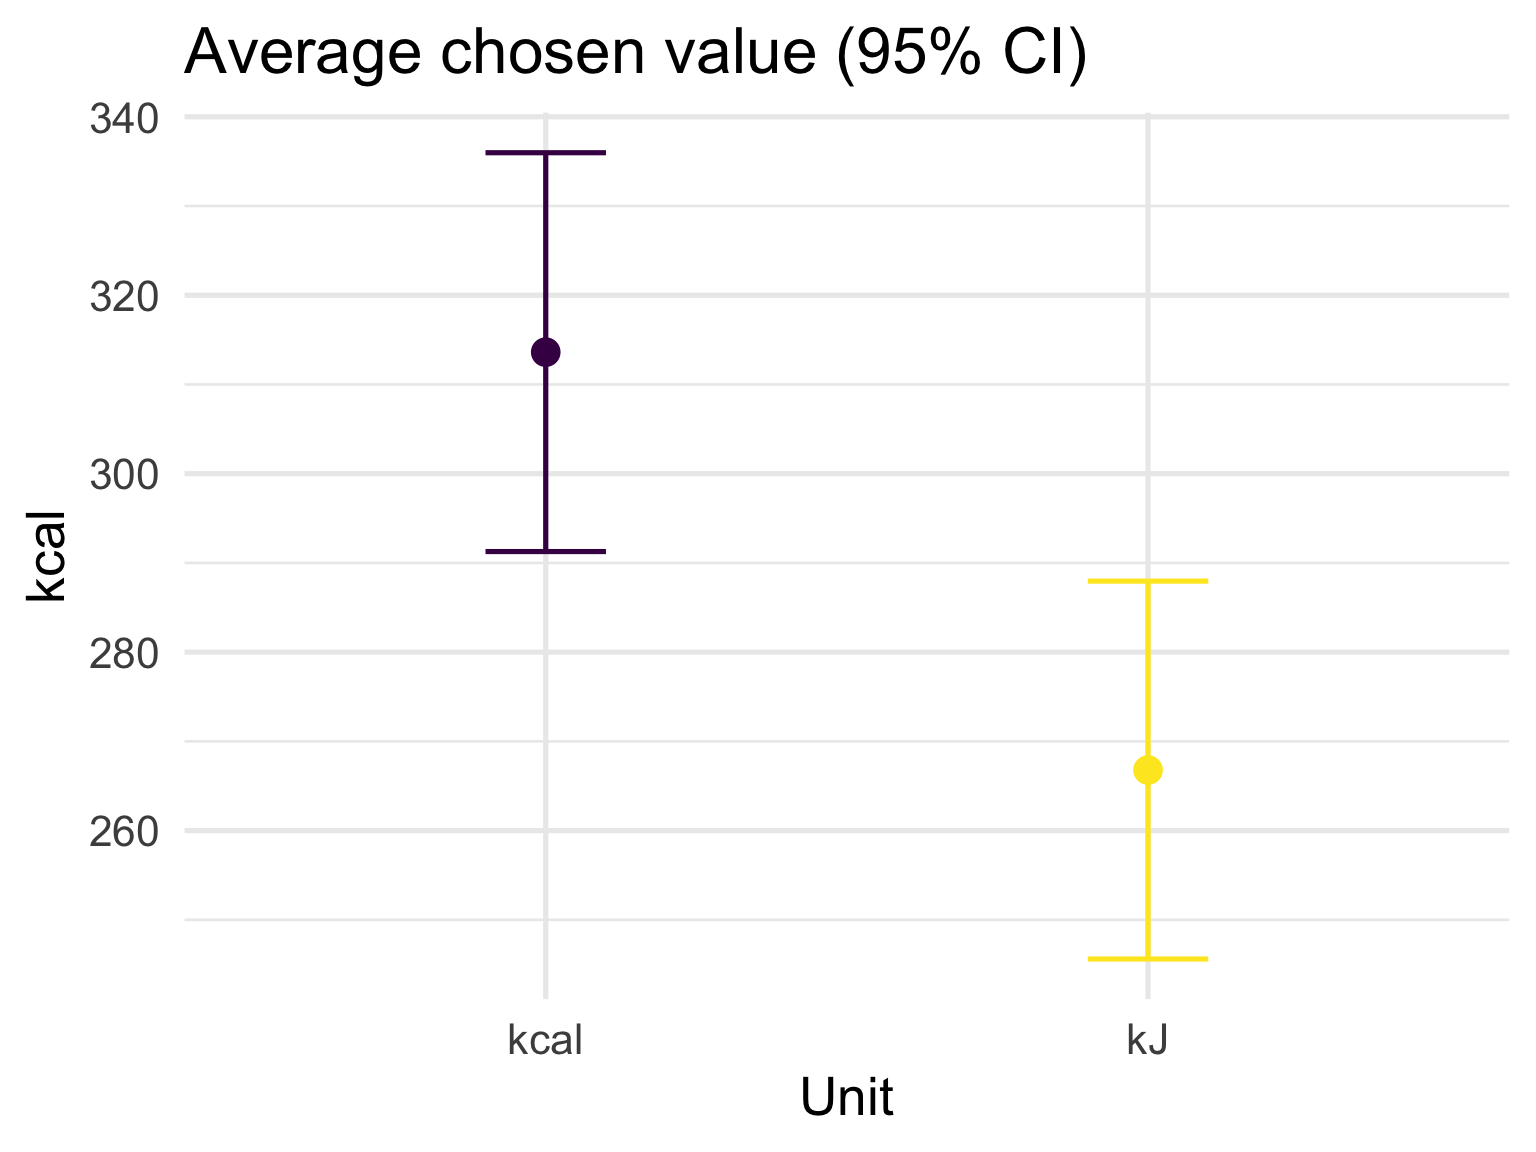
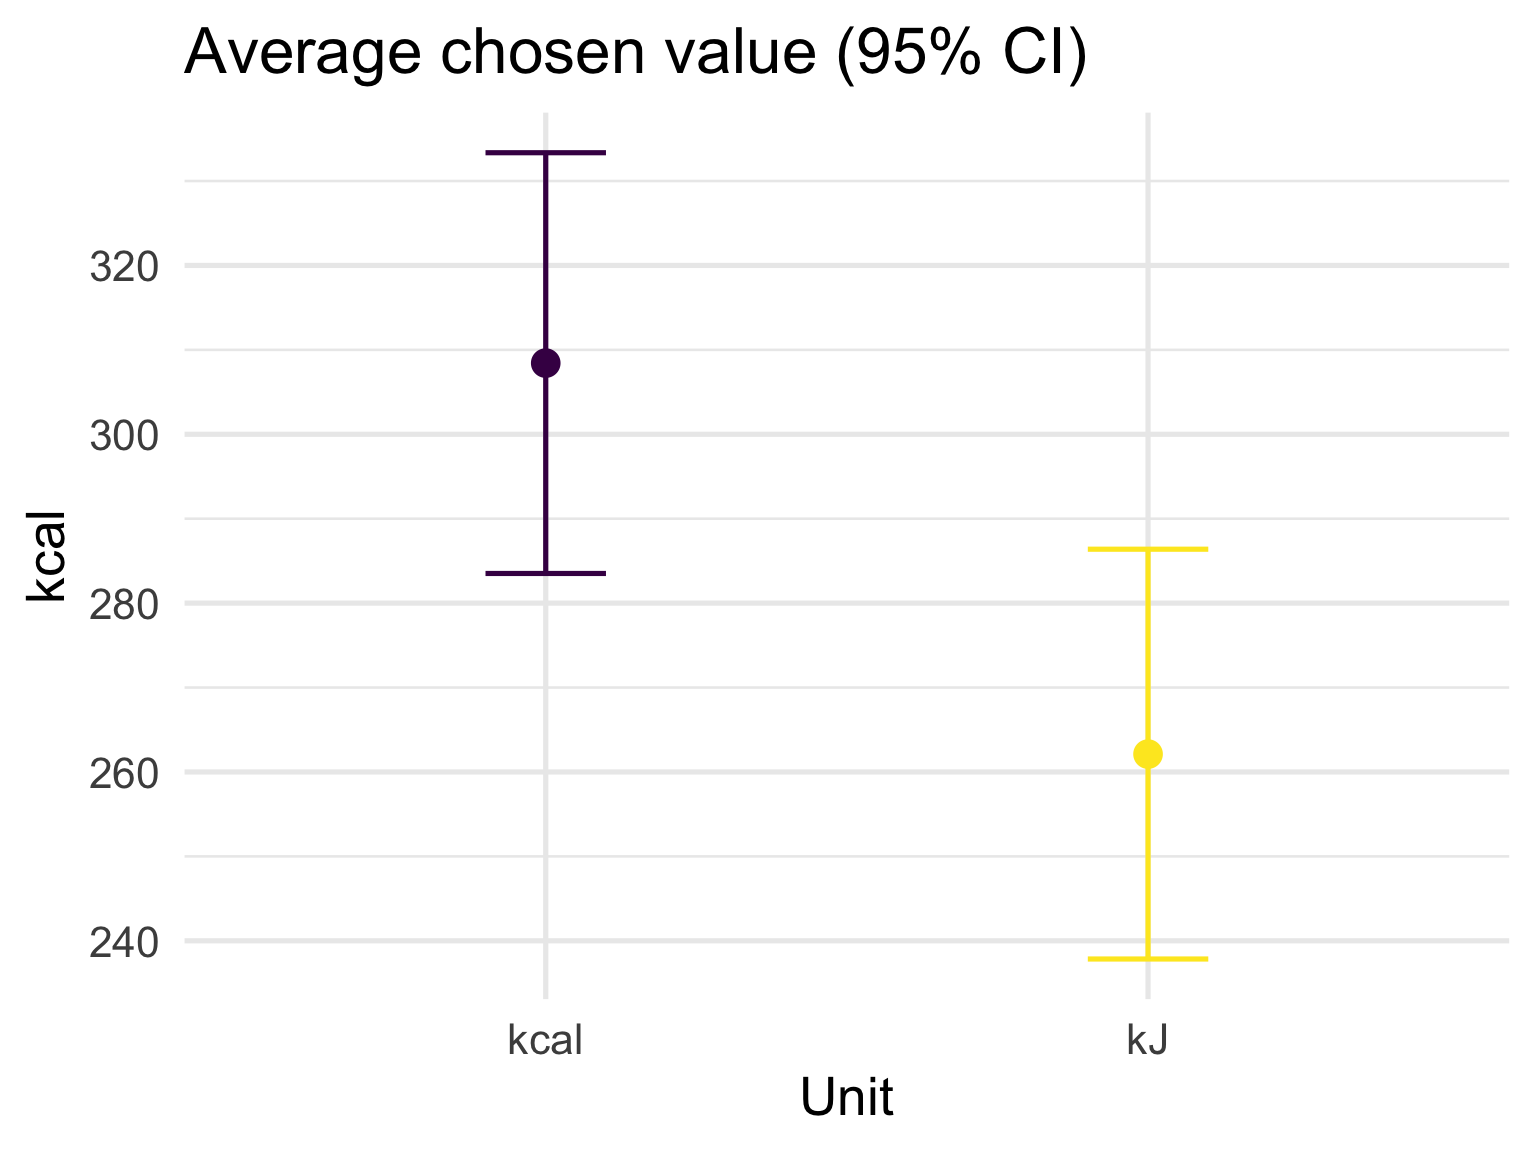
Correct the analysed sample in the unit effect post
Two fixes. The duration criterion used an or, which was true for every
value. And the inclusion list was built from the attention check alone,
so age, completion and duration were reported but never applied.

The analysed sample goes from 150 to 113. The calorie effect still
replicates: 46.32 kcal difference, p = 0.009.

Claude-Session: https://claude.ai/code/session_01UrZ7qpXDxuP4ZY9SLUkDDp

diff --git a/docs/posts/2026-09-10-uniteffect/index.html b/docs/posts/2026-09-10-uniteffect/index.html
@@ -199,8 +199,8 @@ ul.task-list li input[type="checkbox"] {
 <li>Feedback Studie bekannt - alle ‘Ja’: 39 entfernt</li>
 <li>Min 2 von 3 Kontrollfragen korrekt: 46 entfernt</li>
 </ol>
-<p>Es verbleiben 150 in der Stichprobe. Note: Die Kriterien sind bei unabhängiger Anwendung aufgelistet, nicht kumulativ.</p>
-<p>Davon sind 92 weiblich (<em>M</em> = 31, <em>SD</em> = 14.3 Jahre), 55 männlich (<em>M</em> = 31.5, <em>SD</em> = 13.3 Jahre), 2 divers und 1 ohne Geschlechtsangaben.</p>
+<p>Es verbleiben 113 in der Stichprobe. Note: Die Kriterien sind bei unabhängiger Anwendung aufgelistet, nicht kumulativ.</p>
+<p>Davon sind 67 weiblich (<em>M</em> = 31.3, <em>SD</em> = 14.6 Jahre), 45 männlich (<em>M</em> = 31.8, <em>SD</em> = 13.9 Jahre), 1 divers und 0 ohne Geschlechtsangaben.</p>
 </section>
 <section id="replikation-studie-s3" class="level1">
 <h1>Replikation Studie S3</h1>
@@ -225,10 +225,10 @@ Figure&nbsp;1
 <pre><code>Effect sizes were labelled following Cohen's (1988) recommendations.
 
 The Welch Two Sample t-test testing the difference of choice_value by unit
-(mean in group kcal = 313.62, mean in group kJ = 266.78) suggests that the
+(mean in group kcal = 308.43, mean in group kJ = 262.11) suggests that the
 effect is positive, statistically significant, and very small (difference =
-46.84, 95% CI [16.02, 77.66], t(1041.44) = 2.98, p = 0.003; Cohen's d = 0.18,
-95% CI [0.06, 0.31])</code></pre>
+46.32, 95% CI [11.48, 81.16], t(784.50) = 2.61, p = 0.009; Cohen's d = 0.19,
+95% CI [0.05, 0.33])</code></pre>
 </div>
 </div>
 </section>
@@ -255,10 +255,10 @@ Figure&nbsp;2
 <pre><code>Effect sizes were labelled following Cohen's (1988) recommendations.
 
 The Welch Two Sample t-test testing the difference of days by unit (mean in
-group EM = 86.51, mean in group ET = 82.67) suggests that the effect is
-positive, statistically not significant, and very small (difference = 3.84, 95%
-CI [-3.17, 10.85], t(709.27) = 1.08, p = 0.283; Cohen's d = 0.08, 95% CI
-[-0.07, 0.23])</code></pre>
+group EM = 85.00, mean in group ET = 85.06) suggests that the effect is
+negative, statistically not significant, and very small (difference = -0.06,
+95% CI [-8.49, 8.37], t(491.91) = -0.01, p = 0.989; Cohen's d = -1.28e-03, 95%
+CI [-0.18, 0.18])</code></pre>
 </div>
 </div>
 <p>Ein t-test zwischen den beiden Bedingungen (Monate v. Attention Monate) resultiert in:</p>
@@ -267,10 +267,10 @@ CI [-3.17, 10.85], t(709.27) = 1.08, p = 0.283; Cohen's d = 0.08, 95% CI
 <pre><code>Effect sizes were labelled following Cohen's (1988) recommendations.
 
 The Welch Two Sample t-test testing the difference of days by unit (mean in
-group AEM = 79.84, mean in group EM = 86.51) suggests that the effect is
-negative, statistically significant, and very small (difference = -6.66, 95% CI
-[-13.27, -0.06], t(750.30) = -1.98, p = 0.048; Cohen's d = -0.14, 95% CI
-[-0.29, -1.32e-03])</code></pre>
+group AEM = 78.18, mean in group EM = 85.00) suggests that the effect is
+negative, statistically not significant, and very small (difference = -6.82,
+95% CI [-14.70, 1.06], t(516.94) = -1.70, p = 0.090; Cohen's d = -0.15, 95% CI
+[-0.32, 0.02])</code></pre>
 </div>
 </div>
 </section>

diff --git a/docs/index.html b/docs/index.html
@@ -205,7 +205,7 @@ window.Quarto = {
 
 <div class="quarto-listing quarto-listing-container-default" id="listing-listing">
 <div class="list quarto-listing-default">
-<div class="quarto-post image-right" data-index="0" data-categories="UmVwbGljYXRpb24lMkNTY2llbmNlJTJDRGVjaXNpb24lMjBNYWtpbmc=" data-listing-date-sort="1788991200000" data-listing-file-modified-sort="1789052737329" data-listing-date-modified-sort="NaN" data-listing-reading-time-sort="6" data-listing-word-count-sort="1194">
+<div class="quarto-post image-right" data-index="0" data-categories="UmVwbGljYXRpb24lMkNTY2llbmNlJTJDRGVjaXNpb24lMjBNYWtpbmc=" data-listing-date-sort="1788991200000" data-listing-file-modified-sort="1789052841038" data-listing-date-modified-sort="NaN" data-listing-reading-time-sort="7" data-listing-word-count-sort="1320">
 <div class="thumbnail"><a href="./posts/2026-09-10-uniteffect/index.html" class="no-external">
 
 <p class="card-img-top"><img loading='lazy' src="posts/2026-09-10-uniteffect/staticfig-s3-1.png"  class="thumbnail-image card-img"/></p>
